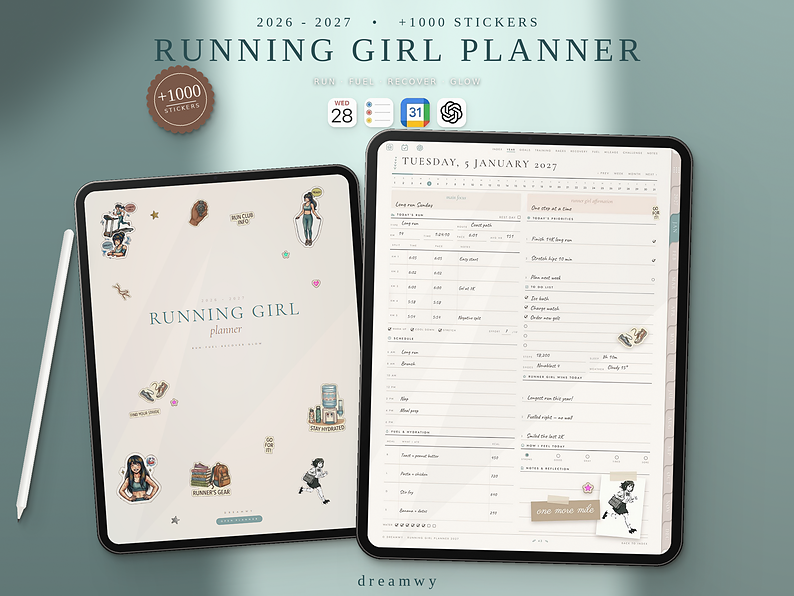
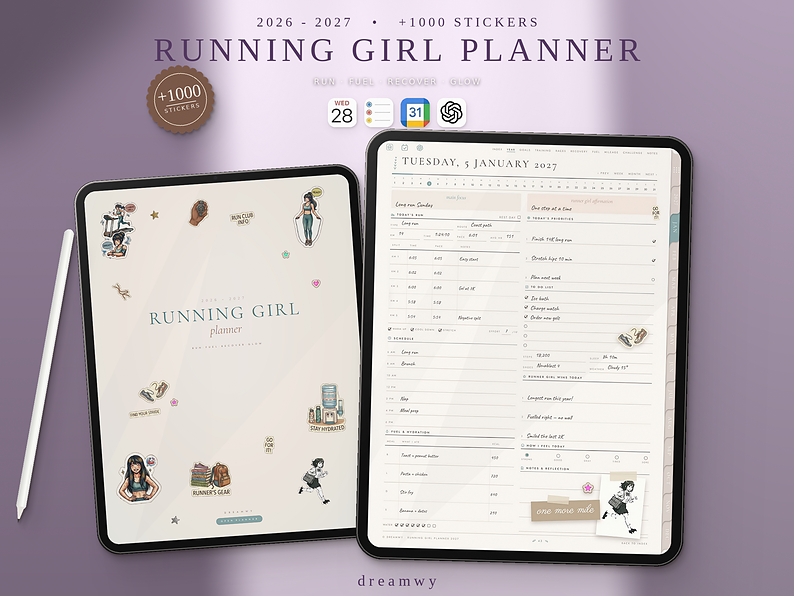
Running Girl mockup: dusty-lavender palette
Claude-Session: https://claude.ai/code/session_015ZGVvYxuW9E1f2kNKHXQzt

Changed region(s): [[0.0, 0.0, 1.0, 0.6946], [0.4534, 0.9664, 0.5441, 0.9966]]

diff --git a/mockup/make_runninggirl_mockup.py b/mockup/make_runninggirl_mockup.py
@@ -1,4 +1,4 @@
-"""Builds the RUNNING GIRL planner listing mockup (2400x1800): same style as the other mockups, with a cool seafoam palette,
+"""Builds the RUNNING GIRL planner listing mockup (2400x1800): same style as the other mockups, with a dusty-lavender palette,
 the cover on the left, the daily page on the right and the stylus on the left of the cover.
 Usage: python3 make_runninggirl_mockup.py <runninggirl_source.jpg> <runninggirl_cover.png> <out.png>
 <runninggirl_source> is the original 2000x2000 Running Girl mockup (daily page + app icons); <runninggirl_cover> is the clean cover page.
@@ -152,9 +152,9 @@ _xr = 1830 + 0.035 * _yy                     # right edge
 _beam = _smooth(_xl - 85, _xl + 130, _xx) * (1 - _smooth(_xr - 80, _xr + 80, _xx))
 _beam *= 1 - 0.26 * (_yy / H) ** 1.4         # the light weakens toward the bottom
 _bloom = np.exp(-(((_xx - 1180) / 760) ** 2 + ((_yy - 230) / 520) ** 2))     # a little warm glow up where the title sits
-_lit = np.array([212, 232, 227], np.float32)
-_shade_l = np.array([122, 150, 148], np.float32)
-_shade_r = np.array([150, 176, 172], np.float32)
+_lit = np.array([234, 222, 236], np.float32)
+_shade_l = np.array([150, 130, 156], np.float32)
+_shade_r = np.array([178, 160, 184], np.float32)
 _sx = _smooth(900, 2400, _xx)[..., None]
 _shade = _shade_l * (1 - _sx) + _shade_r * _sx
 _shade = _shade * (1 - 0.20 * (_yy / H)[..., None] * (1 - _beam[..., None]))     # shade sinks toward the bottom corners
@@ -287,11 +287,11 @@ drop(seal.split()[3], sx - seal.width // 2, sy - seal.height // 2, [(30, 46, 22,
 canvas.alpha_composite(seal, (sx - seal.width // 2, sy - seal.height // 2))
 
 d = ImageDraw.Draw(canvas)
-ink = (42, 78, 82)
+ink = (84, 56, 98)
 spaced(d, (W / 2, 44), "2026 - 2027   \u2022   +1000 STICKERS", ImageFont.truetype(serif, 40), ink, 9)
 spaced(d, (W / 2, 94), "RUNNING GIRL PLANNER", ImageFont.truetype(serif, 100), ink, 14)
 _sub = Image.new("RGBA", (W, H), (0, 0, 0, 0))
-spaced(ImageDraw.Draw(_sub), (W / 2, 234), "RUN \u00b7 FUEL \u00b7 RECOVER \u00b7 GLOW", ImageFont.truetype(sans, 24), (34, 66, 70, 255), 5)
+spaced(ImageDraw.Draw(_sub), (W / 2, 234), "RUN \u00b7 FUEL \u00b7 RECOVER \u00b7 GLOW", ImageFont.truetype(sans, 24), (72, 46, 86, 255), 5)
 _sub = _sub.filter(ImageFilter.GaussianBlur(5)); _sub.putalpha(_sub.split()[3].point(lambda v: int(v * .75)))
 canvas.alpha_composite(_sub)
 d = ImageDraw.Draw(canvas)
